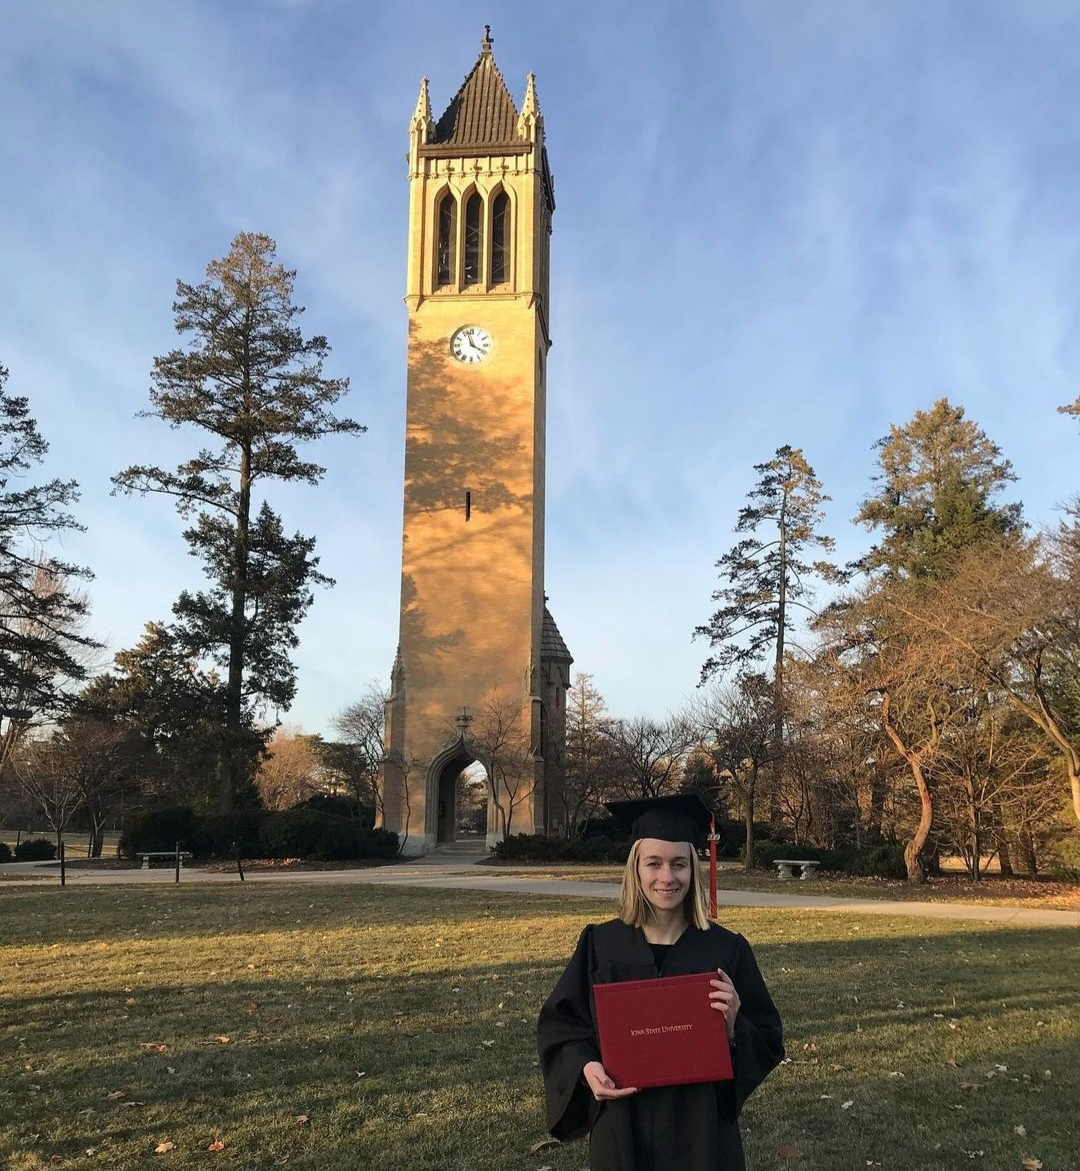
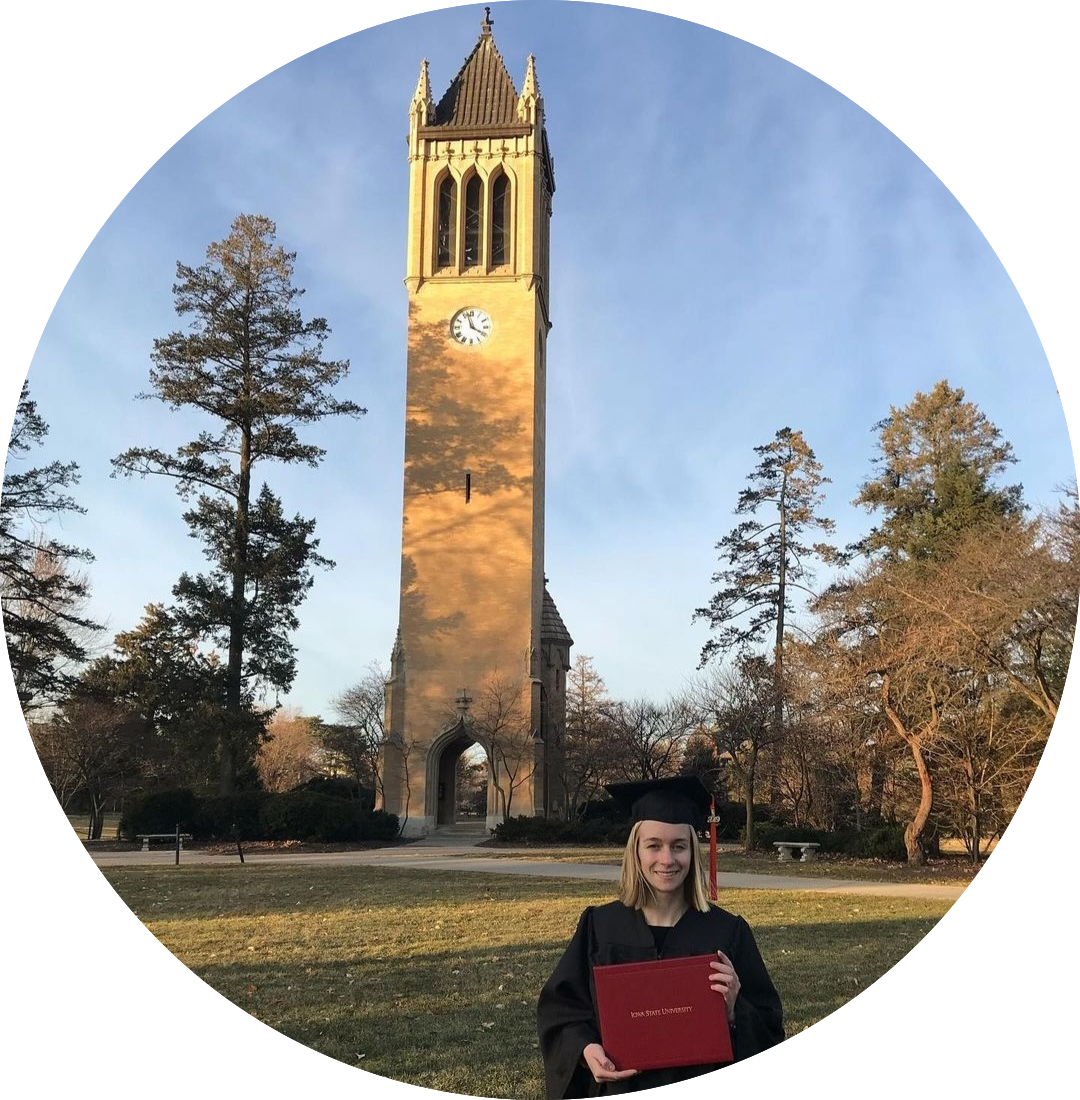
formatting

diff --git a/about.html b/about.html
@@ -25,7 +25,7 @@
     </div>
 
     <br>
-    <img src="images/CtDurangoTerminusRound.png" width="300" height="300" alt="Durange terminus after the CT">
+    <img src="images/CtDurangoTerminusRound.png" width="400" height="400" alt="Durange terminus after the CT">
     <p class="caption">- reaching the Durango CT terminus, a 486 mile walk from Denver -</p>
 
     <div id="content">
@@ -39,7 +39,7 @@
     </div>
     <br>
 
-    <img src="images/mollusk.jpg" width="500" height="370" alt="climbing the mollusk">
+    <img src="images/mollusk.png" width="400" height="400" alt="climbing the mollusk">
     <p class="caption">- In my free time I enjoy bouldering with friends -</p>
 
 </body>

diff --git a/contact.html b/contact.html
@@ -25,7 +25,7 @@
     </div>
     <br>
     <div id="content">
-        <img src="images/campanile.png" width="325" height="375" alt="me in front of ISU campanile">
+        <img src="images/campanile.png" width="400" height="400" alt="me in front of ISU campanile">
         <br>
         <p><b>email:</b> heidi[at]heidisnell.com</p>
     </div>

diff --git a/resume.html b/resume.html
@@ -88,8 +88,6 @@
                         <br>
                         <br>
                         <br>
-                        <br>
-                        <br>
                     </div>
                     <div class="column">
                         <span class="resumeSubSection">Novice</span>

diff --git a/style.css b/style.css
@@ -18,7 +18,7 @@ p.resumeBullet{
 .column{
   float: left;
   padding: 10px;
-  width: 33.33%;
+  width: 28%;
 }
 
 .row::after{
